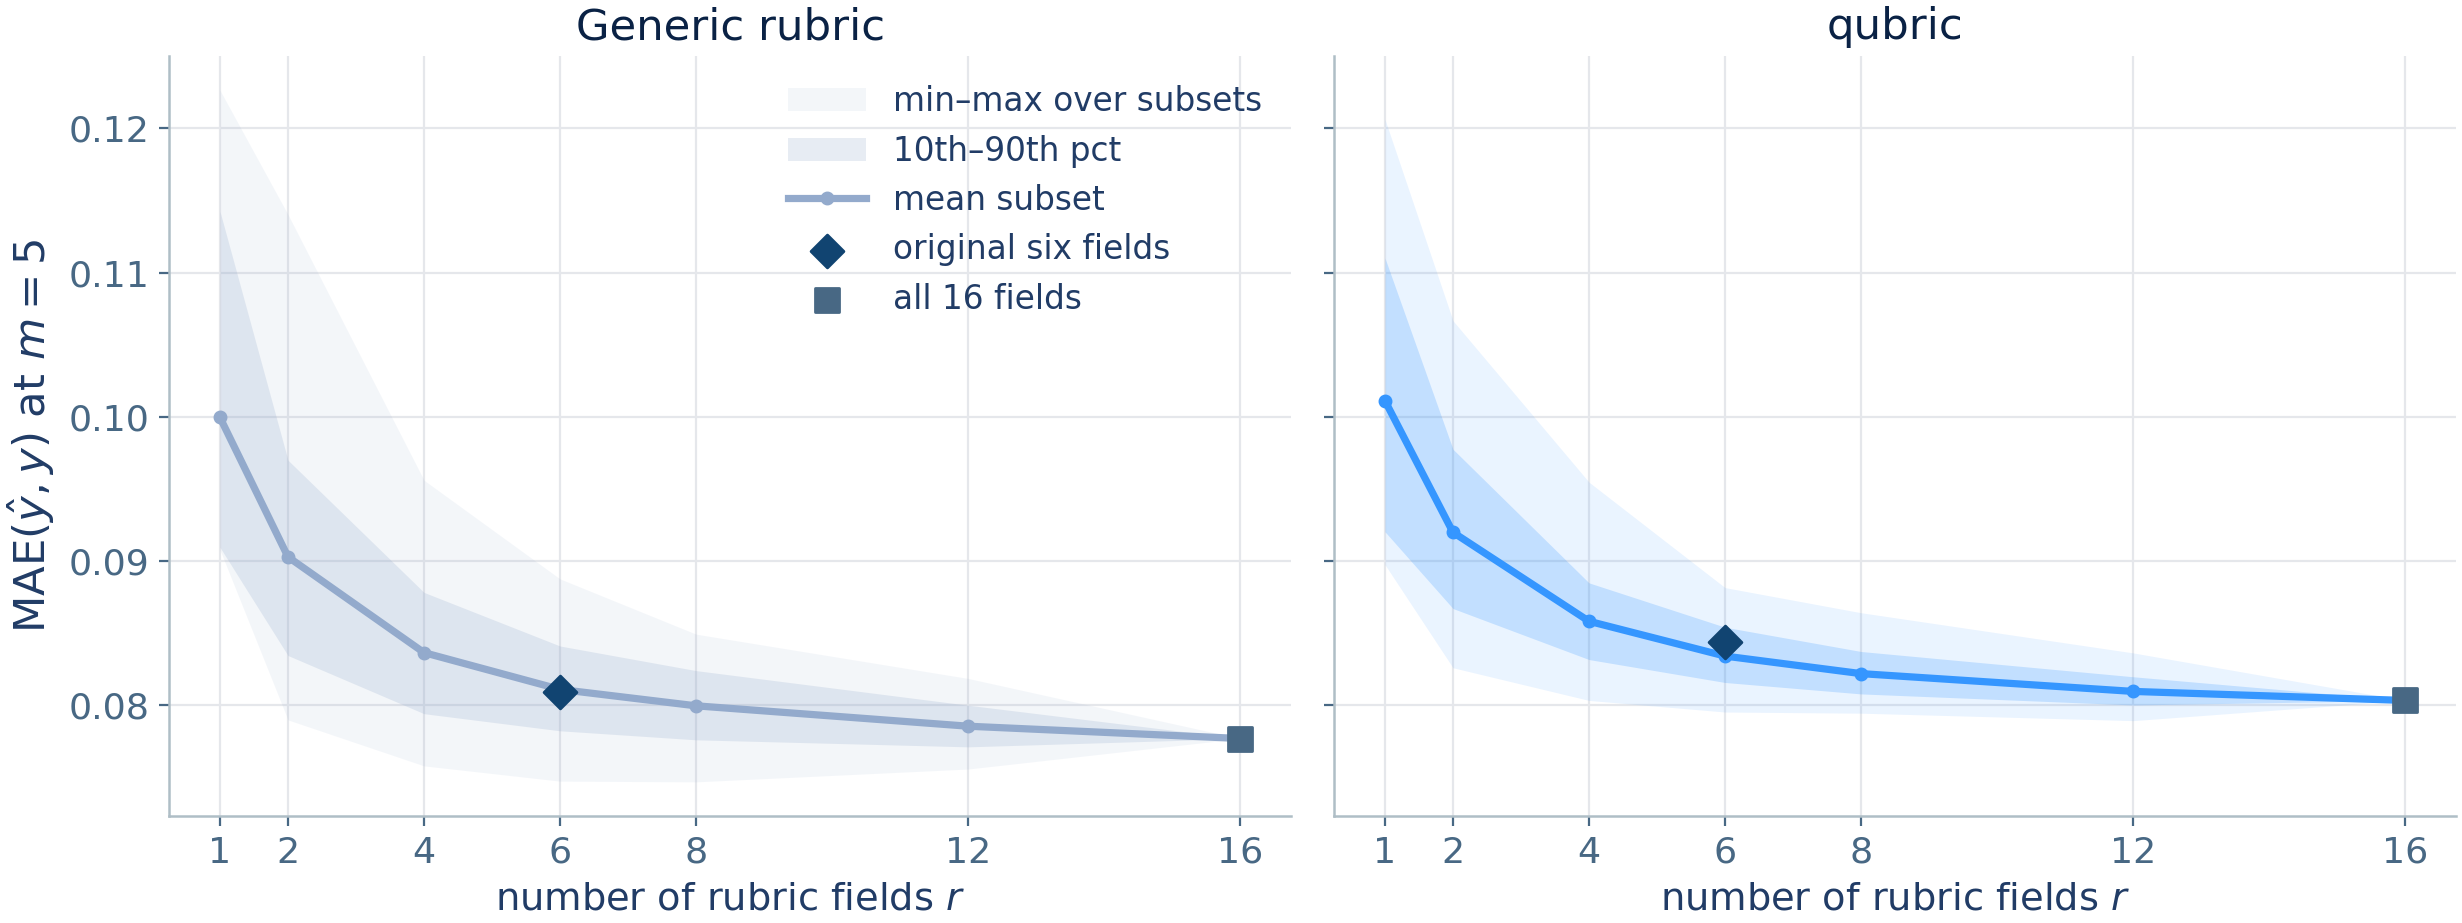
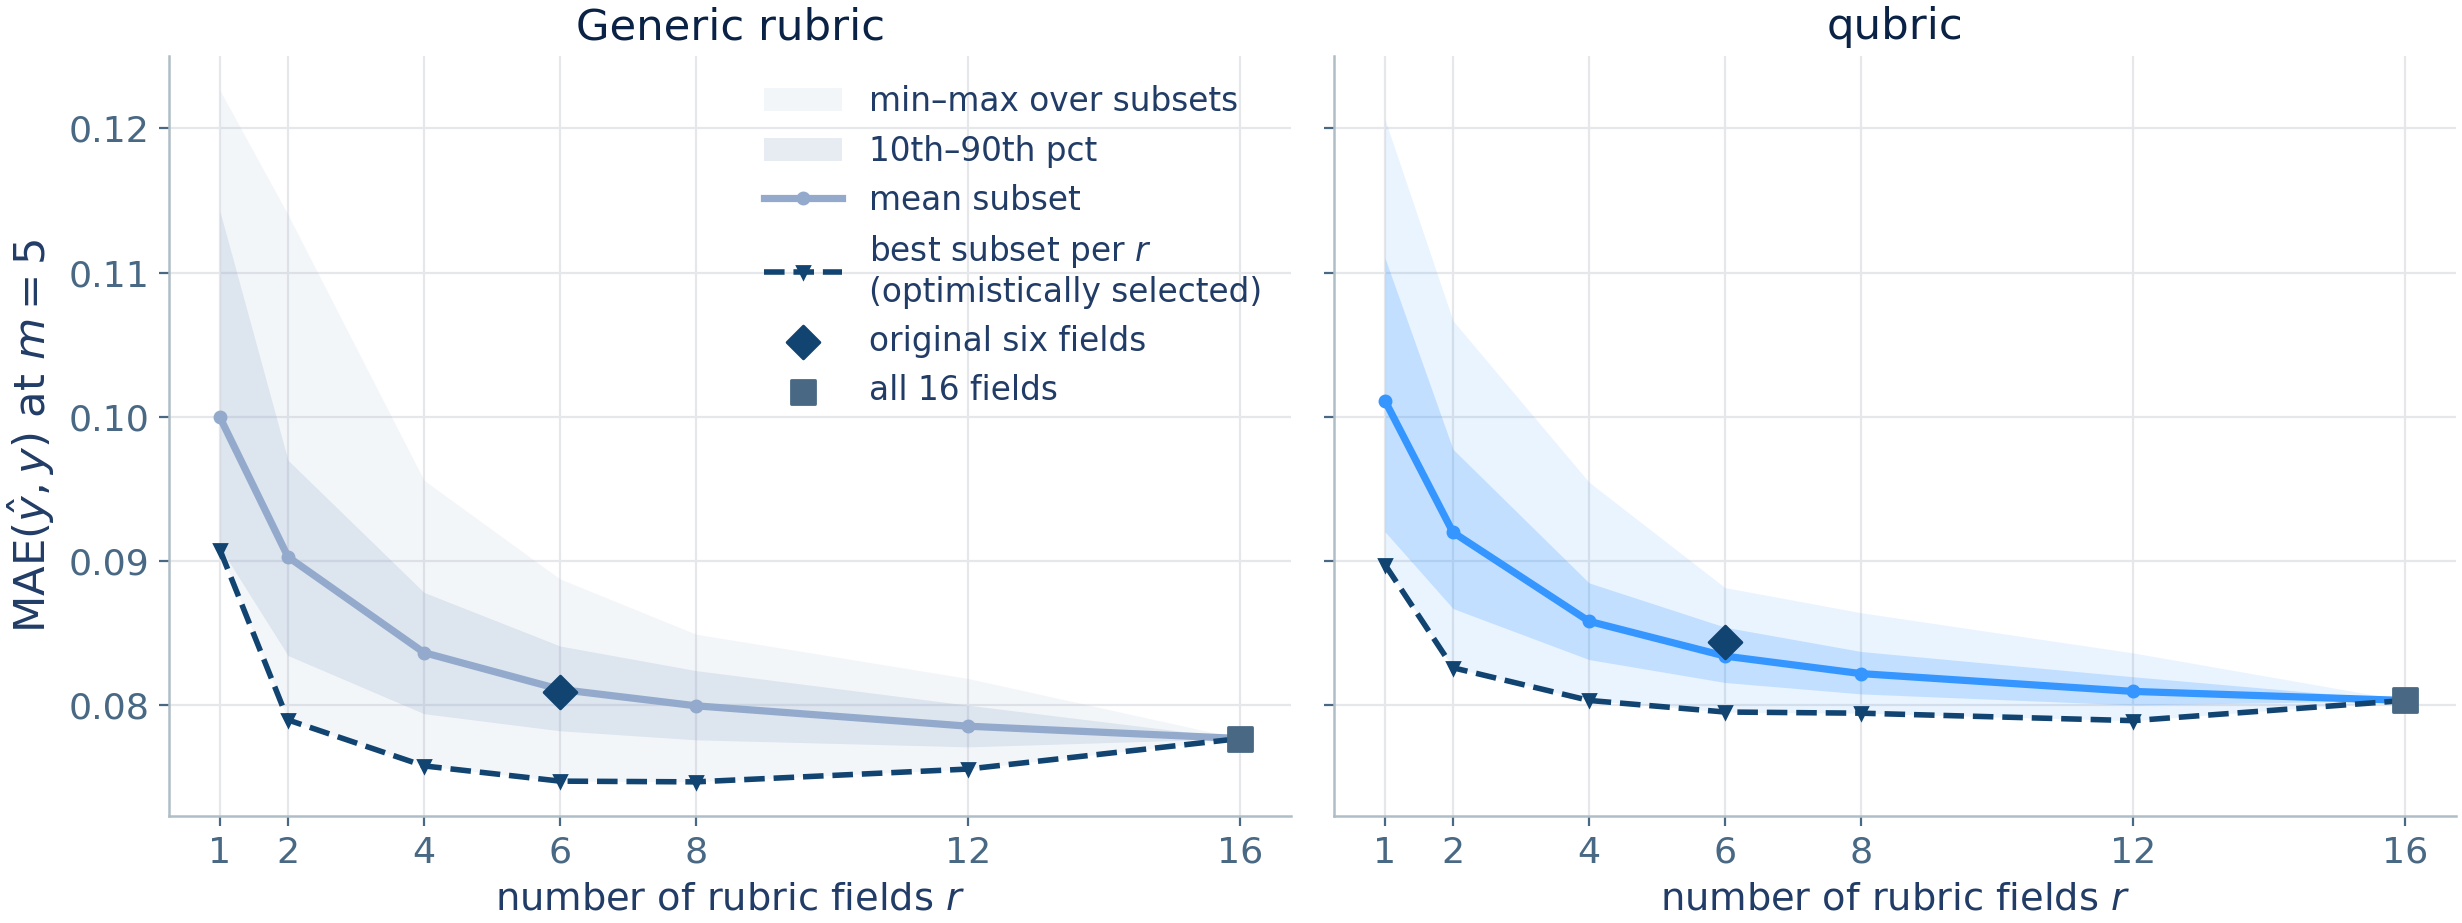
fig_sensitivity: best-subset-per-r line (labeled optimistically selected)
Claude-Session: https://claude.ai/code/session_01RGusFFXzoPTkSKgzzDLjNv

diff --git a/scripts/rubric16_eval.py b/scripts/rubric16_eval.py
@@ -211,6 +211,9 @@ def render(all_res):
                         label='10th–90th pct')
         ax.plot(rs, mean, color=st['color'], lw=2.6, marker='o', ms=4,
                 label='mean subset')
+        ax.plot(rs, mn, color=hv_style.ROLES['anchor']['color'], lw=2.0,
+                ls='--', marker='v', ms=4, label='best subset per $r$'
+                + '\n(optimistically selected)')
         ax.scatter([6], [res['orig6']], marker='D', s=70,
                    color=hv_style.ROLES['anchor']['color'], zorder=5,
                    label='original six fields')
